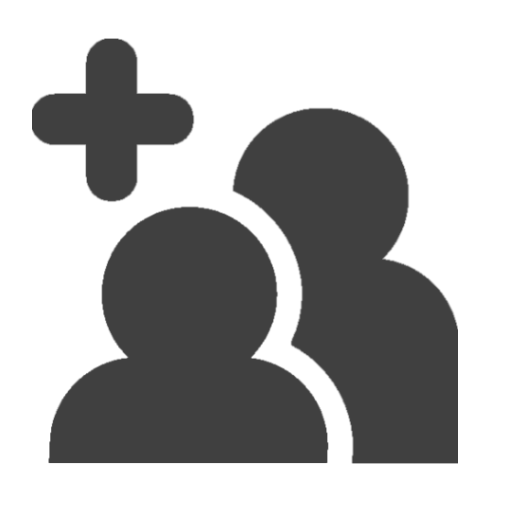
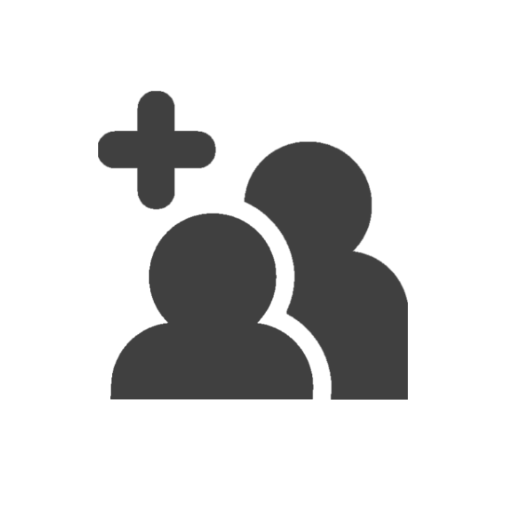
amici e logout

Changed region(s): [[0.0625, 0.0625, 0.9062, 0.9062]]

diff --git a/amici/amici.css b/amici/amici.css
@@ -31,28 +31,48 @@ h1{
   border-radius: 0 10px 10px 0;
 }
 #friend_button{
-  background-color: #f8f8f8;
+  background-image: url("../imgs/add.png");
+  background-size: 40px;
   border: none;
+  margin: 0;
   border-left: 1px solid #cbcbcb;
-  border-radius: 0 10px 10px 0;
+  border-radius: 0 10px 0 0;
   vertical-align: top;
   display: inline-block;
+  float: right;
   width: 40px;
   height: 40px;
 }
+#friend_button:hover{
+  background-color: #cbcbcb;
+}
 #scheda_utente{
   background-color: #f8f8f8;
-  border-radius: 10px 0 0 10px;
+  overflow: hidden;
+  border-radius: 10px 10px 10px 10px;
   cursor: pointer;
-  display: inline-block;
+  display: block;
+  margin: 0 0 5px 0;
   width: 300px;
-  height: 40px;
+  height: auto;
   color: black;
 }
 #avatar_img{
   display:inline-block;
+  vertical-align: bottom;
   background-color:#292929;
-  border-radius: 10px;
   width:40px;
   height:40px;
+}
+.risp_richiesta{
+  box-sizing: border-box;
+  background-color: #efefef;
+  font-family: open_sans_regular;
+  border-radius: 0 0 10px 10px;
+  text-align: center;
+  line-height: 35px;
+  width: 300px;
+  overflow: hidden;
+  height: 0;
+  transition: height 500ms;
 }

diff --git a/amici/amici.js b/amici/amici.js
@@ -14,3 +14,16 @@ function ricerca_utenti() {
     xhttp.open("GET", "cerca.php" + "?ris_cerca=" + ris_cerca.value, true);
     xhttp.send(null);
 }
+function aggiungi_utenti(id_amico,button) {
+    var risp_richiesta = button.parentElement.getElementsByClassName("risp_richiesta")[0];
+    var xhttp = new XMLHttpRequest();
+    xhttp.onreadystatechange = function () {
+        if (this.readyState == 4 && this.status == 200) {
+            button.disabled = "true";
+            risp_richiesta.style.height = "30px";
+            risp_richiesta.innerHTML = this.responseText;
+        }
+    };
+    xhttp.open("GET", "aggiungi.php" + "?id_amico=" + id_amico, true);
+    xhttp.send(null);
+}

diff --git a/amici/index.php b/amici/index.php
@@ -45,47 +45,76 @@ $img = avatar($id_avatar);
     <button style="border-bottom: none;border-radius:0 0 10px 10px;" class="account_button">Logout</button>
   </div>
 
-  <h1 style="margin-top:0;">Trova un utente:</h1>
-  <div style="display:inline-block;">
-    <input id="search_bar" type="text"><!--
-    --><input type="submit" id="search_button" value="" onclick="ricerca_utenti();">
-  </div>
-
-  <div id="ris_div" style="padding:20px 0;">
-
-  </div>
-
-  <h1>Lista amici</h1>
-
-  <div style="padding:20px 0;">
   <?php
   $sql = "SELECT * FROM amici
-  INNER JOIN utenti
-  ON amici.id_amico = utenti.id OR amici.id_utente = utenti.id
-  WHERE amici.accettato = 1
-  AND utenti.id != '$id_utente'
-  AND (amici.id_utente = '$id_utente'
-  OR amici.id_amico = '$id_utente')";
+  INNER JOIN utenti ON amici.id_utente = utenti.id
+  WHERE amici.accettato = 0 AND amici.id_amico = '$id_utente'";
   $results = mysqli_query($conn, $sql);
-  if ($results->num_rows == 0) {
-    echo "<p id='no_amici'>Non hai ancora aggiunto nessun amico!</p>";
-  }else{
+  if ($results->num_rows != 0) {
     while ($row = mysqli_fetch_assoc($results)) {
       $uname_amico = $row['username'];
       $avatar_amico = $row['id_avatar'];
       $img_avatar = avatar($avatar_amico);
       echo "
-      <a><div style='display:block;cursor:pointer;margin-right:10px;'>
-      <div style='display: inline-block; height: 50px; width: 50px; overflow: hidden'><img id='small_icon' src='$img_avatar' style='width:50px;height:50px;'></div>
-      <p2 id='nome_utente'>$uname_amico</p2>
+      <a><div id='scheda_utente'>
+      <img src='$img_avatar' id='avatar_img'>
+      <p2 id='nome_utente' style='display:inline-block;'>$uname_amico</p2>
       </div></a>
       ";
     }
   }
   ?>
+  <div style="display:block;">
+
   </div>
 
-  <h1>Biblioteche preferite</h1>
+  <div style="width:33%;display:inline-block;vertical-align:top;min-width: 350px;">
+    <h1 style="margin-top:0;">Trova un utente:</h1>
+    <div style="display:inline-block;padding:20px 0">
+      <input id="search_bar" type="text"><!--
+      --><input type="submit" id="search_button" value="" onclick="ricerca_utenti();">
+    </div>
+    <div id="ris_div" style="padding:20px 0;">
+
+    </div>
+  </div>
+
+  <div style="width:33%;display:inline-block;min-width:350px;">
+    <h1>Lista amici</h1>
+
+    <div style="padding:20px 0;">
+    <?php
+    $sql = "SELECT * FROM amici
+    INNER JOIN utenti
+    ON amici.id_amico = utenti.id OR amici.id_utente = utenti.id
+    WHERE amici.accettato = 1
+    AND utenti.id != '$id_utente'
+    AND (amici.id_utente = '$id_utente'
+    OR amici.id_amico = '$id_utente')";
+    $results = mysqli_query($conn, $sql);
+    if ($results->num_rows == 0) {
+      echo "<p id='no_amici'>Non hai ancora aggiunto nessun amico!</p>";
+    }else{
+      while ($row = mysqli_fetch_assoc($results)) {
+        $uname_amico = $row['username'];
+        $avatar_amico = $row['id_avatar'];
+        $img_avatar = avatar($avatar_amico);
+        echo "
+        <a><div id='scheda_utente'>
+        <img src='$img_avatar' id='avatar_img'>
+        <p2 id='nome_utente' style='display:inline-block;'>$uname_amico</p2>
+        </div></a>
+        ";
+      }
+    }
+    ?>
+    </div>
+
+  </div>
+
+  <div style="width:33%;display:inline-block;vertical-align:top;min-width: 350px;">
+    <h1>Biblioteche preferite</h1>
+  </div>
 
 </div></div>
 

diff --git a/amici/cerca.php b/amici/cerca.php
@@ -20,14 +20,15 @@ if ($results->num_rows == 0) {
   while ($row = mysqli_fetch_assoc($results)) {
     $uname_amico = $row['username'];
     $avatar_amico = $row['id_avatar'];
+    $id_amico = $row['id'];
     $img_avatar = avatar($avatar_amico);
     echo "
-    <div style='display:block;'>
     <a><div id='scheda_utente'>
     <img src='$img_avatar' id='avatar_img'>
-    <p2 id='nome_utente' style='display:inline-block;'>$uname_amico</p2></div></a><!--
-    --><a><img src='../imgs/add.png' id='friend_button'></a>
-    </div>
+    <p2 id='nome_utente' style='display:inline-block;'>$uname_amico</p2><!--
+    --><button id='friend_button' onclick='aggiungi_utenti($id_amico,this)'></button><!--
+    --><div class='risp_richiesta'></div>
+    </div></a>
     ";
   }
 }

diff --git a/amici/aggiungi.php b/amici/aggiungi.php
@@ -1,0 +1,16 @@
+<?php
+session_start();
+include "../connection.php";
+$id_utente = $_SESSION['id_utente'];
+$id_amico = $_GET['id_amico'];
+
+$sql = "INSERT INTO amici (id_utente,id_amico,accettato) VALUES ('$id_utente','$id_amico',0)";
+$results = mysqli_query($conn, $sql);
+
+if ($results) {
+  echo "<b style='color:green;'>Richiesta inviata!</b>";
+}else {
+  echo "<b style='color:green;'>Qualcosa è andato storto!</b>";
+}
+
+?>

diff --git a/logout.php b/logout.php
@@ -1,0 +1,6 @@
+<?php
+session_start();
+session_unset();
+session_destroy();
+header('Location: /index.html');
+?>
